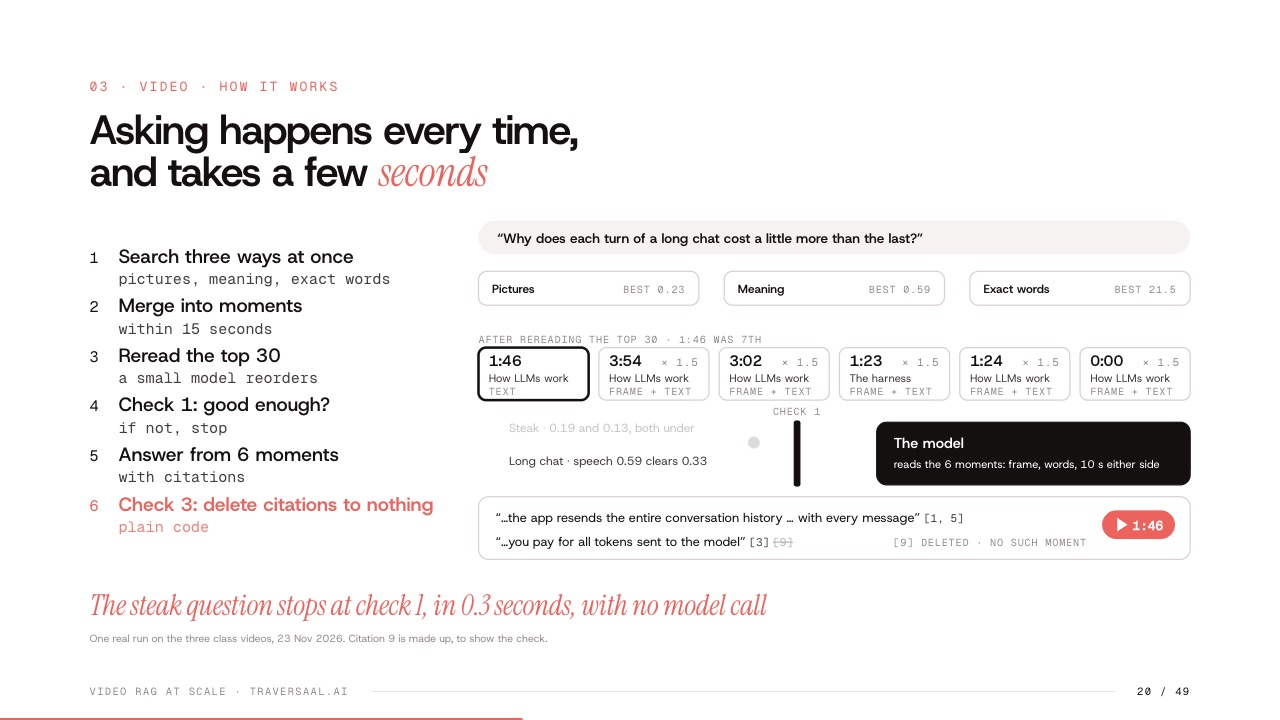
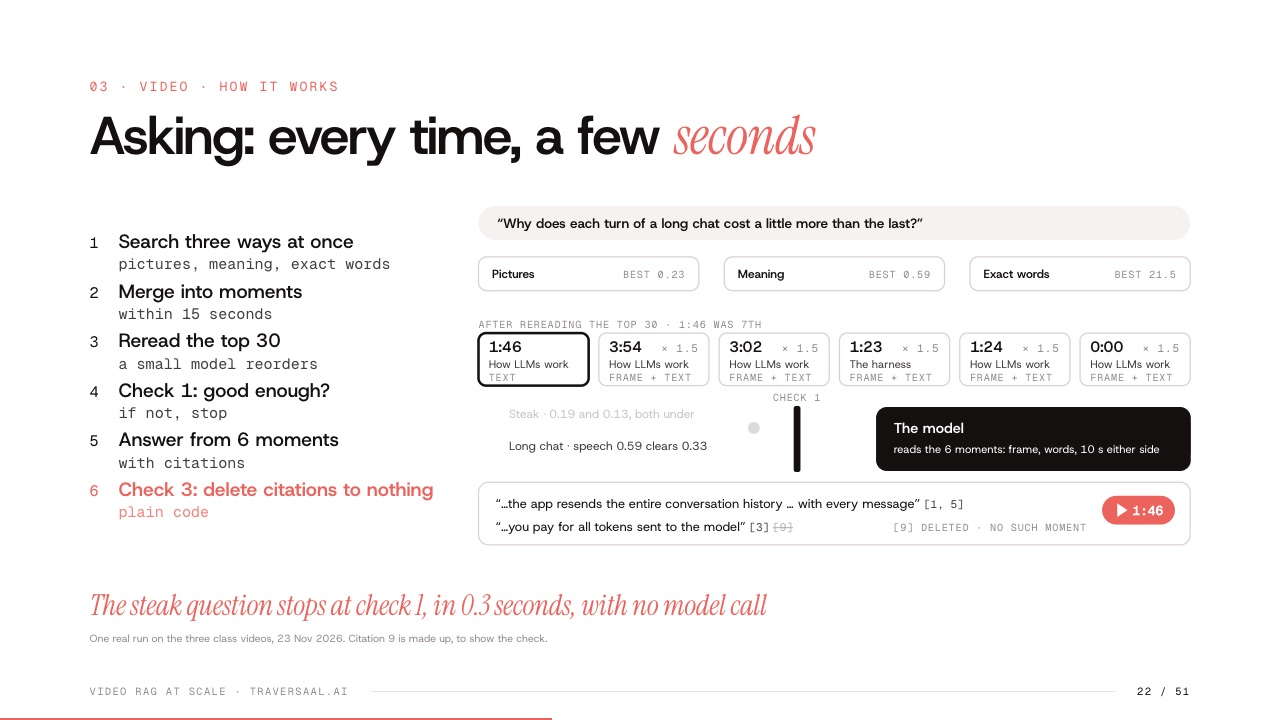
README: slide images and captions from deck 9cfe8e3 (new headlines, add-a-video split in two)

diff --git a/README.md b/README.md
@@ -11,7 +11,7 @@
 
 Ask a question about a video and get back the exact moments that answer it: what was **said**, and what was **on screen**. A transcript alone misses half of a video. This workshop indexes both halves, merges them into moments, refuses when the evidence is thin, and measures itself with an answer key.
 
-![A moment is what was said plus what was shown](docs/img/slide-moment.jpg)
+![We search moments, not transcript chunks](docs/img/slide-moment.jpg)
 
 ## Two notebooks
 
@@ -45,7 +45,9 @@ flowchart LR
 
 ### Adding a video
 
-![Adding a video happens once, and takes about 30 seconds](docs/img/slide-add-a-video.jpg)
+![Adding a video, part 1: the pictures](docs/img/slide-add-pics.jpg)
+
+![Adding a video, part 2: the words](docs/img/slide-add-words.jpg)
 
 | Step | What happens | How LLMs work (4:21) |
 |---|---|---|
@@ -56,49 +58,49 @@ flowchart LR
 | Chunk | ~20 s per chunk: long enough to mean something, short enough to point at | **13** chunks |
 | Two vectors per chunk | `text-embedding-3-small` (meaning) + BM25 sparse (exact words), one Qdrant point | 13 points |
 
-![A four-minute video has 15,700 frames. The index keeps 71](docs/img/slide-funnel.jpg)
+![15,700 frames in, 71 kept](docs/img/slide-funnel.jpg)
 
 Dropping repeats is the biggest saving and the first thing that can go wrong. The 1:40 slide (a stack of pages under a magnifying glass) is dropped as a repeat of 1:26. It costs an answer. The key asks for that slide, and check 1 refuses it in every mode: the best picture match is 0.22 (bar 0.24) and the best transcript match 0.328 (bar 0.33).
 
-![Our first optimization quietly deleted the picture of a real answer](docs/img/slide-dedup.jpg)
+![We dropped a frame we needed](docs/img/slide-dedup.jpg)
 
-![Every 20 seconds of speech gets two vectors](docs/img/slide-two-vectors.jpg)
+![Each piece of speech gets two vectors](docs/img/slide-two-vectors.jpg)
 
 ### Asking a question
 
-![Asking happens every time, and takes a few seconds](docs/img/slide-ask.jpg)
+![Asking: every time, a few seconds](docs/img/slide-ask.jpg)
 
-![One question, three searches](docs/img/slide-three-searches.jpg)
+![Three searches at once](docs/img/slide-three-searches.jpg)
 
 Cosine and BM25 scores live on different scales, so the lists are merged by rank (reciprocal rank fusion, `1 / (60 + rank)`), then hits within 15 seconds in the same video become one moment:
 
-![Merge by rank](docs/img/slide-rrf.jpg)
+![Merge by rank, not by score](docs/img/slide-rrf.jpg)
 
-![When the picture and the speech agree, the moment counts 1.5 times](docs/img/slide-boost.jpg)
+![When both agree, it counts 1.5 times](docs/img/slide-boost.jpg)
 
 On short videos the boost lands on almost everything: each search returns 20 hits and a 4-minute video has 13 transcript chunks, so every frame hit finds a chunk within 15 seconds. A frames-only moment never reached the top 6 in our runs.
 
 Two checks keep it from making things up. **Check 1** runs before the model: if the best picture match is under **0.24** and the best transcript match under **0.33**, it answers "I couldn't find that" without an LLM call. **Check 3** runs after: code deletes any `[n]` that points at a moment the model was never shown.
 
-![If nothing is close enough, the model never runs](docs/img/slide-gate.jpg)
+![Nothing close enough? It stops](docs/img/slide-gate.jpg)
 
-![Code deletes citations that point at nothing](docs/img/slide-citations.jpg)
+![Fake citations get deleted](docs/img/slide-citations.jpg)
 
 ### At scale
 
-![Keep slow ingestion out of the question path](docs/img/slide-split-paths.jpg)
+![Keep uploads away from questions](docs/img/slide-split-paths.jpg)
 
 In production each ingestion step is a Prefect task with its own retry rule (fetch 2 retries at 30 s and 2 min, embed 2 at 60 s, transcript 1), so a failure reruns one step, not the whole video. The quickstart's `ms.add_video()` runs the same steps in order without Prefect; the from-scratch notebook runs the real flow.
 
-![The queue retries the step that failed](docs/img/slide-retries.jpg)
+![Retry the step, not the video](docs/img/slide-retries.jpg)
 
 Memory is the bill at scale. Each collection keeps full float32 vectors on disk and an int8 copy in RAM that does the searching, then rescores the top hits with the full vectors:
 
-![A copy at a quarter of the memory finds the same top ten](docs/img/slide-int8.jpg)
+![A quarter of the memory, the same top ten](docs/img/slide-int8.jpg)
 
 ## Measured: the answer key
 
-![Scoring it takes seconds, so you run it after every change](docs/img/slide-measure.jpg)
+![Scoring: seconds, after every change](docs/img/slide-measure.jpg)
 
 21 questions over the three videos with known answer windows: 9 **said**, 5 **shown**, 3 **both**, 4 **not in the videos** (must refuse). A hit is a returned moment within 15 s of the window. No LLM call, so the whole key runs in seconds.
 
@@ -108,7 +110,7 @@ Memory is the bill at scale. Each collection keeps full float32 vectors on disk 
 | pictures only | 47% | 67% | 0% | 67% | 0.28 | 100% |
 | both (default) | 82% | 100% | 40% | 100% | 0.82 | 75% |
 
-![Three numbers, and none of them needs the model](docs/img/slide-three-numbers.jpg)
+![Three numbers, no model](docs/img/slide-three-numbers.jpg)
 
 Read this honestly: on these three videos the transcript alone wins, because the speaker describes what is on screen, and with short videos nearly every moment is found by both a frame and the text, so the ×1.5 boost stops separating them. Benchmarks on chart-heavy video (CFVBench, above) show the opposite. Run the key on your own videos before you pick.
 
